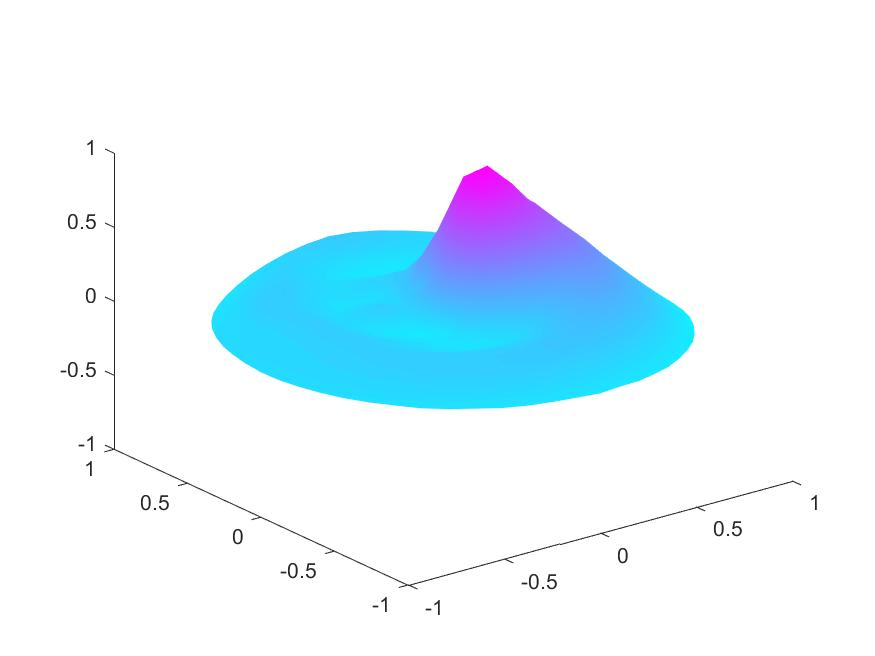
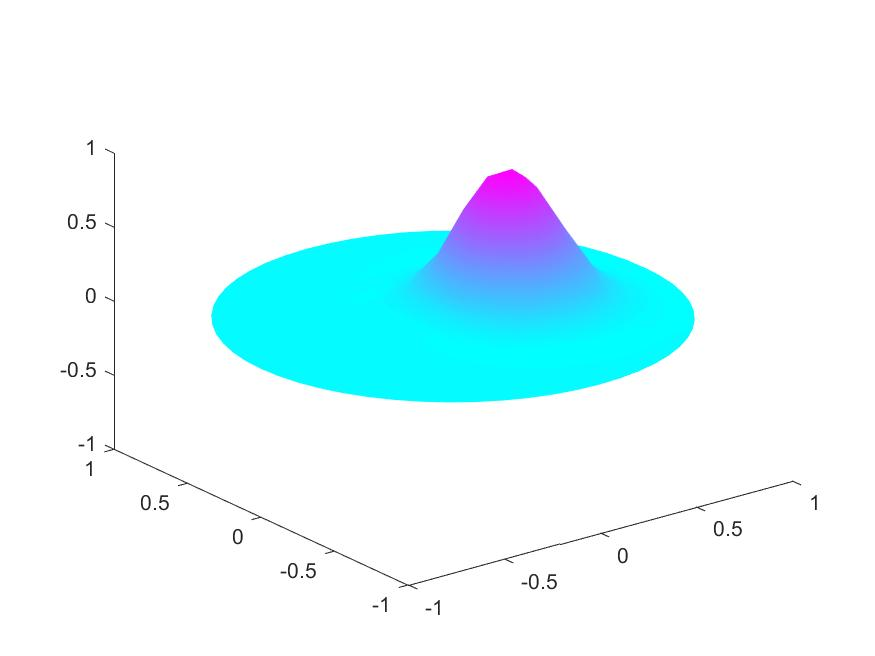
continued

Changed region(s): [[0.216, 0.2439, 0.8023, 0.6402]]

diff --git a/FEM_Assign1/Code/RunPart2.m b/FEM_Assign1/Code/RunPart2.m
@@ -1,12 +1,13 @@
 close all;
 %ProblemOptimal();
 close all;
-%Problem22();
+Problem22();
 close all;
 Problem23();
 close all;
 
 %convergence for RV: smooth: 1.7237, discont.: 0.48594
+%convergence for GLS: smooth 1.6243, discont.: 0.32305
 
 function MakeAnims(RunSimulationFunc, InitialFunc, simName)
     h = [1/8, 1/16];
@@ -67,20 +68,20 @@ end
 function Problem22()
     MakeAnims(@RunSimulationGLS, @InitialBoobyFunction, 'gls_smooth');
     close all;
-    MakeAnims(@RunSimulationRV, @InitialBoobyFunction, 'rv_smooth');
+    %MakeAnims(@RunSimulationRV, @InitialBoobyFunction, 'rv_smooth');
     close all;
     CalcConvergence(@RunSimulationGLS, @InitialBoobyFunction, 'gls_smooth');
-    CalcConvergence(@RunSimulationRV, @InitialBoobyFunction, 'rv_smooth');
+    %CalcConvergence(@RunSimulationRV, @InitialBoobyFunction, 'rv_smooth');
     close all;
 end
 
 function Problem23()
     MakeAnims(@RunSimulationGLS, @InitialCylinderFunction, 'gls_shock');
     close all;
-    MakeAnims(@RunSimulationRV, @InitialCylinderFunction, 'rv_shock');
+    %MakeAnims(@RunSimulationRV, @InitialCylinderFunction, 'rv_shock');
     close all;
     CalcConvergence(@RunSimulationGLS, @InitialCylinderFunction, 'gls_shock');
-    CalcConvergence(@RunSimulationRV, @InitialCylinderFunction, 'rv_shock');
+    %CalcConvergence(@RunSimulationRV, @InitialCylinderFunction, 'rv_shock');
     close all;
 end
 
@@ -121,7 +122,7 @@ function [U, M, p, t] = RunSimulationGLS(meshSize, InitialData)
 
     xi = CreateInitialData(p, InitialData);
 
-    delta = 1;
+    delta = 1/2*meshSize/fPrimeMax;
     M = MassMatrixGFEM(p,t) + delta*MassMatrixLS(p,t);
     C = ConvectionMatrixGFEM(p,t) + delta*ConvectionMatrixLS(p,t);
 

diff --git a/FEM_Assign3/Code/RunPart1.m b/FEM_Assign3/Code/RunPart1.m
@@ -6,12 +6,15 @@ Problem11();
 close all;
 
 function Problem11()
-    h = [1/8, 1/16];
+    h = [1/8];%, 1/16];
 
     for i=1:length(h)
         [U, M, p, t] = RunSimulationGFEM(h(i), @InitialFunction);
         figure;
         pdesurf(p,t,U(:,size(U, 2)))
+        xlim([-4,2])
+        ylim([-4,2])
+        zlim([0,12])
         print(['../Plots/problem_1_1_result_', num2str(i)],'-djpeg')
 
         animFileName = ['../Plots/animation_smooth_h', num2str(i)];
@@ -103,19 +106,27 @@ function Problem13()
     print('../Plots/problem_1_3_errors','-djpeg')
 end
 
+function geom = rectangleg()
+    geom = [
+        2 2 2   -2.5 1.5  1 0; ...
+        2 2 -2  1.5 1.5   1 0; ...
+        2 -2 -2 1.5 -2.5  1 0; ...
+        2 -2 2  -2.5 -2.5 1 0]';
+end
 
 function [U, M, p, t] = RunSimulationGFEM(meshSize, InitialData)
     endTime = 1;
-    CFL = 0.5;
-    fPrimeMax = 2*pi*0.5; % ||2*pi*[-y, x]|| over a circle w/ r=0.5
-    timeStep = CFL*meshSize / fPrimeMax;
+    timeStep = 0.01;
     numIters = ceil(endTime/timeStep);
-    timeStep = endTime / numIters;
+    endTime = numIters*timeStep;
 
-    geometry = @circleg;
-    [p,e,t] = initmesh(geometry, 'hmax', meshSize);
+    geometry = @rectangleg;
+    [p,e,t] = initmesh(geometry(), 'hmax', meshSize);
 
     xi = CreateInitialData(p, InitialData);
+    figure(9);
+    pdesurf(p, t, xi);
+    title('Initial stuff')
 
     M = MassMatrixGFEM(p,t);
 

diff --git a/FEM_Assign3/Code/ConvectionMatrixGFEM.m b/FEM_Assign3/Code/ConvectionMatrixGFEM.m
@@ -5,17 +5,15 @@ function convectionMatrix = ConvectionMatrixGFEM(p,t, uprev)
     
     for i=1:numTriangles
         nodeIndices = t(1:3,i);
-        %x=p(1,nodeIndices);
-        %y=p(2,nodeIndices);
-
-        [area,b,c] = HatGradients(x,y);
+        x=p(1,nodeIndices)';
+        y=p(2,nodeIndices)';
+        
+        area = polyarea(x, y);
+        
+        fprimeUprev1 = mean(-sin(uprev(nodeIndices)));
+        fprimeUprev2 = mean(-cos(uprev(nodeIndices)));
     
-        %bxmid = mean(-2*pi*y);
-        %bymid = mean(2*pi*x);
-        fprimeUprev1 = cos(uprev(nodeIndices));
-        fprimeUprev2 = -sin(uprev(nodeIndices));
-    
-        subMatrix=ones(3,1)*(fprimeUprev2*b + fprimeUprev2*c)'*area/3;
+        subMatrix=ones(3,1)*(fprimeUprev1 + fprimeUprev2)'*area/3;
         convectionMatrix(nodeIndices,nodeIndices) = convectionMatrix(nodeIndices,nodeIndices) + subMatrix;
     end
 end

diff --git a/FEM_Assign3/Code/SolverCN.m b/FEM_Assign3/Code/SolverCN.m
@@ -9,7 +9,21 @@ function U = SolverCN(massMatrix, p, t, xiInitial, timeStep, numIters)
     
     for i=1:numIters
         C = ConvectionMatrixGFEM(p,t,xi);
-        deltaXi = (M/timeStep - C/2)\b;
+        b = LoadAssembler2D(p,t,xi);
+        
+        Zeta = zeros(size(xi));
+        
+        for j=1:20
+            Zeta = -timeStep*M\(b+1/2*C*Zeta);
+        end %for, j
+        
+        deltaXi = Zeta;
+        
+        deltaXi_questionable = (M/timeStep - C/2)\b;
+        
+        %figure(6);
+        %pdesurf(p, t, deltaXi);
+        %drawnow;
         
         xi_new = xi + deltaXi;
         xi = xi_new;

diff --git a/FEM_Assign3/Code/LoadAssembler2D.m b/FEM_Assign3/Code/LoadAssembler2D.m
@@ -1,0 +1,16 @@
+function b = LoadAssembler2D(p,t,uprev) 
+    np = size(p,2); nt = size(t,2); 
+    b = zeros(np,1); 
+    for K = 1:nt 
+        nodeIndices = t(1:3,K); 
+        x = p(1,nodeIndices);
+        y = p(2,nodeIndices);
+        area = polyarea(x,y); 
+
+        fPrimePrev1 = cos(uprev(nodeIndices));
+        fPrimePrev2 = -sin(uprev(nodeIndices));
+
+        bK = (fPrimePrev1 + fPrimePrev2)/3*area; % element load vector 
+        b(nodeIndices) = b(nodeIndices) + bK; % add element loads to b #
+    end
+end

diff --git a/FEM_Assign3/Code/MakeAnimation.m b/FEM_Assign3/Code/MakeAnimation.m
@@ -4,9 +4,9 @@ function MakeAnimation(p, t, U, fileName, frameTime)
     for frameIdx = 1:size(U, 2)
         % Draw plot
         pdesurf(p, t, U(:,frameIdx))
-        xlim([-1,1]);
-        ylim([-1,1]);
-        zlim([-0.3,1.3]);
+        xlim([-4,2])
+        ylim([-4,2])
+        zlim([0,12])
         drawnow
         % Capture the plot as an image
         frame = getframe(h);
